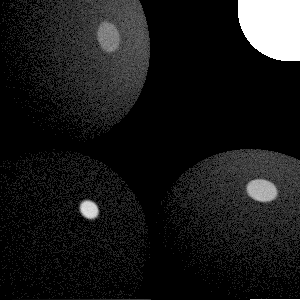
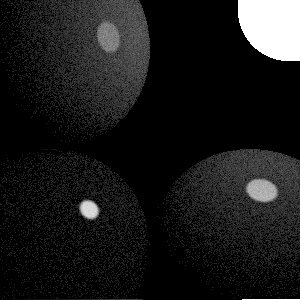
task07 finished

diff --git a/task07/main.cpp b/task07/main.cpp
@@ -370,8 +370,8 @@ int main() {
         
         auto dir_to_light = (hit1_pos - hit0_pos).normalized();
         float distance2 = (hit1_pos - hit0_pos).squaredNorm();
-        float cos_theta = abs(hit0_normal.dot(dir_to_light));//std::max(hit0_normal.dot(dir_to_light),0.f);
-        float cos_phi = abs(-hit1_normal.dot(dir_to_light));//std::max(-hit1_normal.dot(dir_to_light),0.f);
+        float cos_theta = hit0_normal.dot(dir_to_light);
+        float cos_phi = -hit1_normal.dot(dir_to_light);
         float rad = cos_theta * cos_phi * hit0_brdf * hit1_rad / distance2 / hit0_pdf/ nsample;
         
         img_light[ih * img_width + iw] += rad;
@@ -393,7 +393,7 @@ int main() {
         float hit1_rad = spheres[hit1_object].emission;
         // compute the contribution for this pixel
         auto dir_to_light = (hit1_pos - hit0_pos).normalized();
-        float cos_theta = std::max(hit0_normal.dot(dir_to_light),0.f);
+        float cos_theta = hit0_normal.dot(dir_to_light);
         float rad = cos_theta * hit0_brdf * hit1_rad  / hit0_pdf / nsample;
         
         img_brdf[ih * img_width + iw] += rad;
@@ -415,7 +415,7 @@ int main() {
         float hit0_pdf_light_sample = pdf_light_sample(hit0_normal, hit0_pos, cam_ray_dir, hit0_refl, hit0_object);
         
         auto dir_to_light = (hit1_pos - hit0_pos).normalized();
-        float cos_theta = std::max(hit0_normal.dot(dir_to_light),0.f);
+        float cos_theta = hit0_normal.dot(dir_to_light);
         float rad = cos_theta * hit0_brdf * hit1_rad / (hit0_pdf_brdf_sample + hit0_pdf_light_sample)/num_half_sample;
         
         img_mis[ih * img_width + iw] += rad;
@@ -432,8 +432,8 @@ int main() {
         
         auto dir_to_light = (hit1_pos - hit0_pos).normalized();
         float distance2 = (hit1_pos - hit0_pos).squaredNorm();
-        float cos_theta = std::max(hit0_normal.dot(dir_to_light),0.f);
-        float cos_phi = std::max(hit1_normal.dot(-dir_to_light),0.f);
+        float cos_theta = hit0_normal.dot(dir_to_light);
+        float cos_phi = hit1_normal.dot(-dir_to_light);
         float rad = cos_theta * cos_phi * hit0_brdf * hit1_rad / distance2 /(hit0_pdf_light_sample + hit0_pdf_brdf_sample)/num_half_sample;
         
         img_mis[ih * img_width + iw] += rad;
